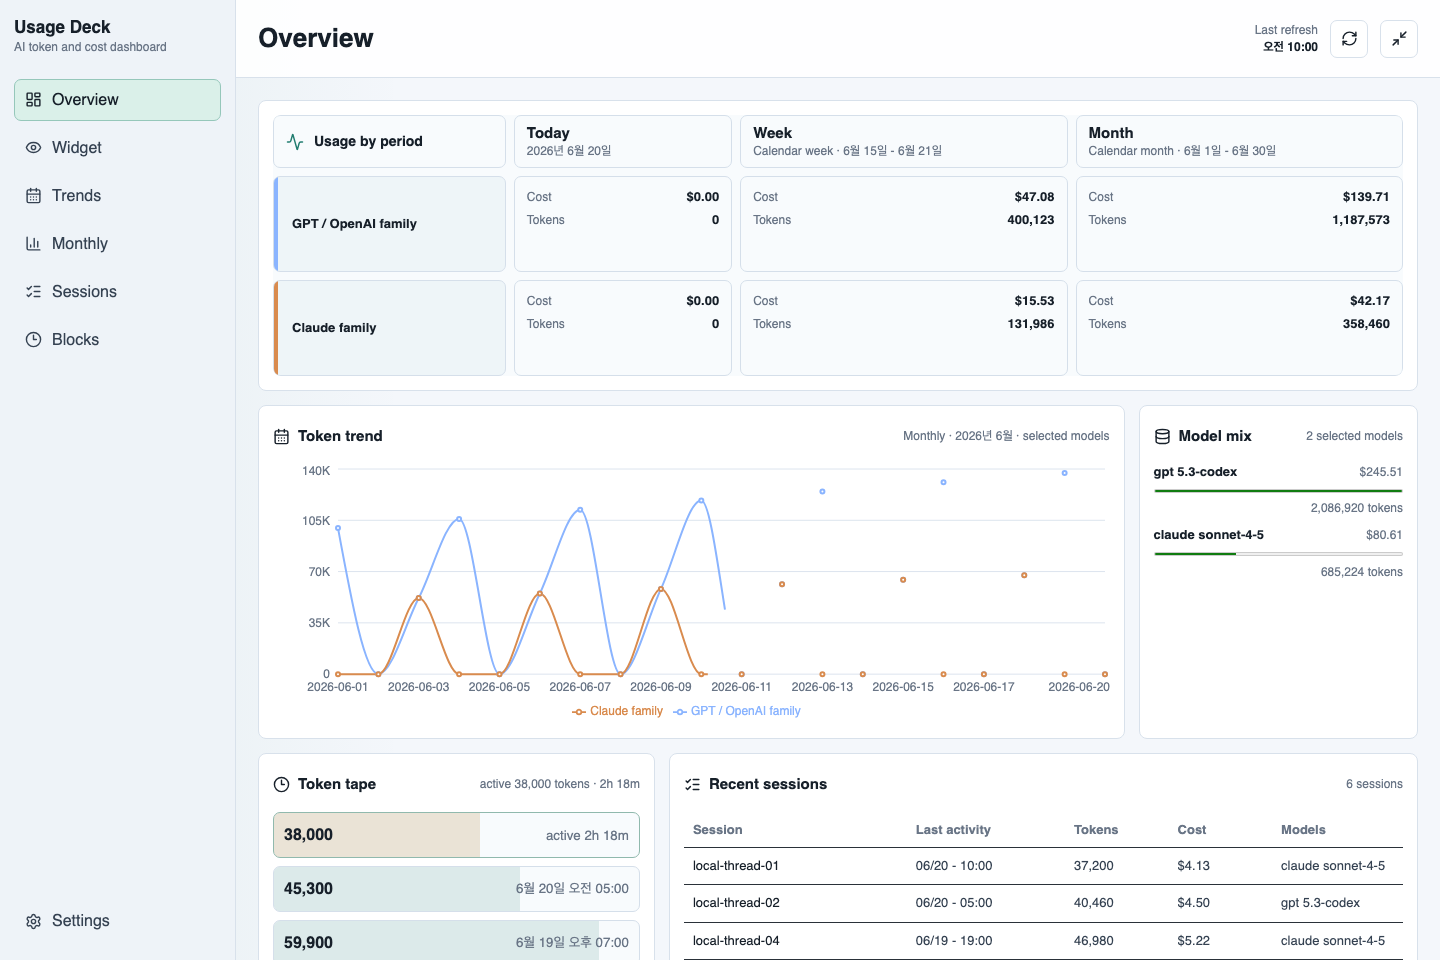
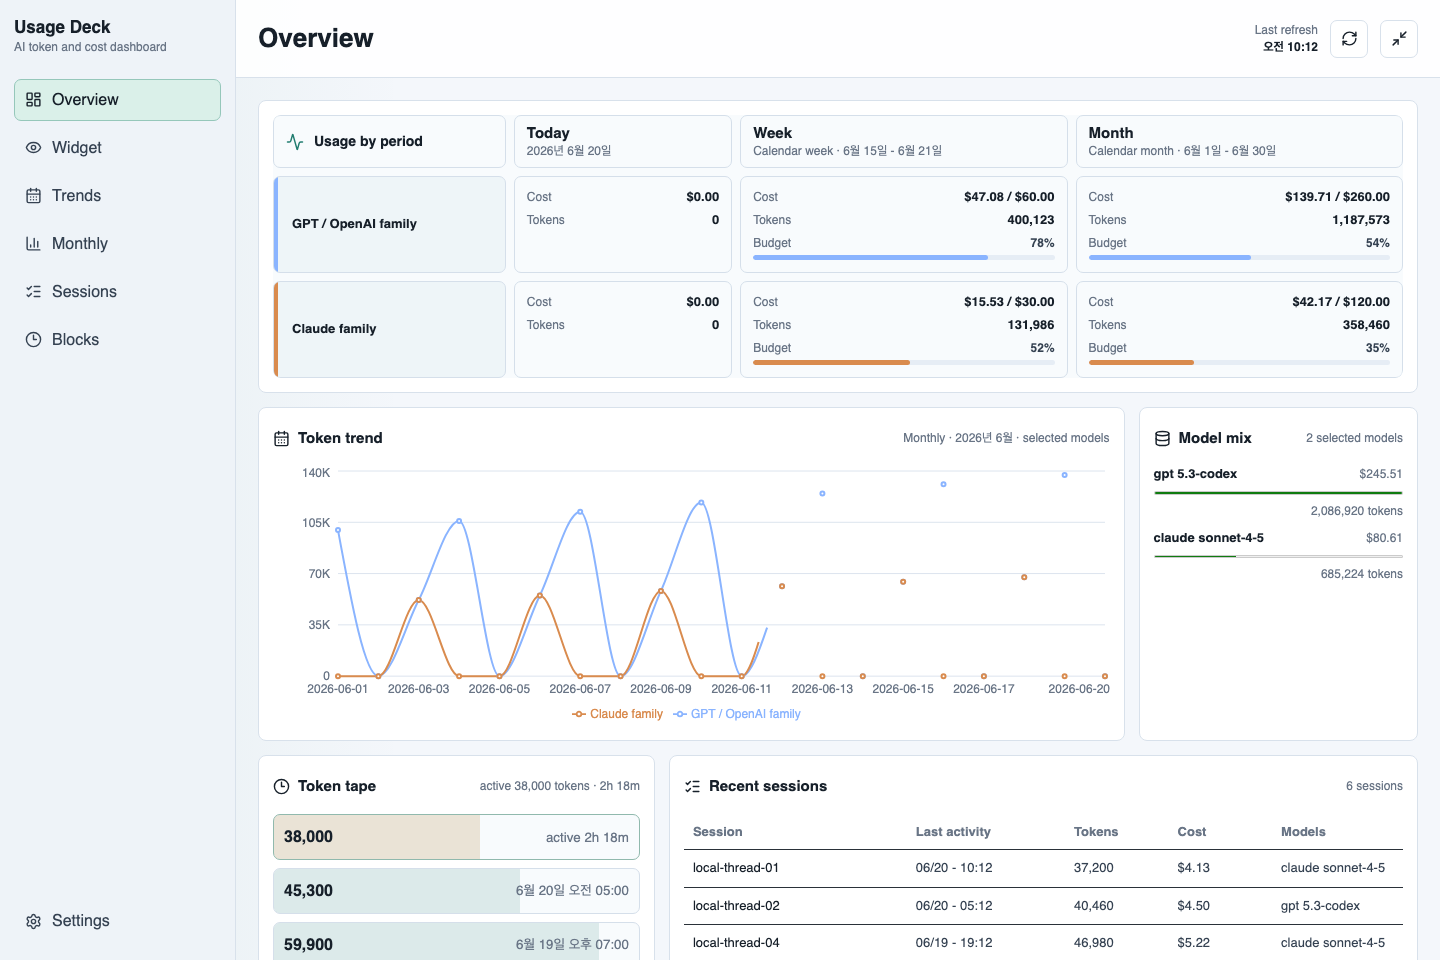
Update README screenshots with budget states

diff --git a/README.md b/README.md
@@ -2,7 +2,11 @@
 
 Desktop dashboard for local AI coding usage. The app reads ccusage JSON output and renders usage trends, model budgets, sessions, and active block data without sending local usage data anywhere.
 
-![Usage Deck overview dashboard](docs/usage-deck-overview.png)
+## Screenshots
+
+![Usage Deck overview dashboard with model budgets](docs/usage-deck-overview.png)
+
+![Usage Deck compact widget with budget gauges](docs/usage-deck-widget.png)
 
 ## Stack
 